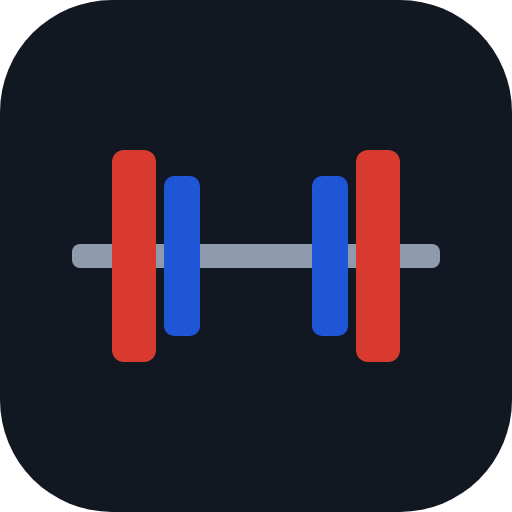
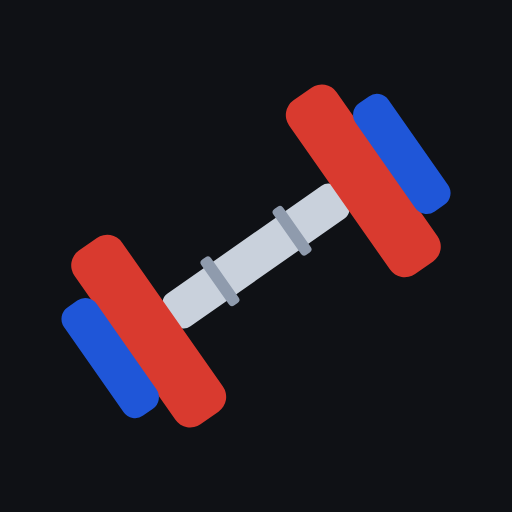
0.5.0: ad Fitness, dambıl logosu
Claude-Session: https://claude.ai/code/session_01VzwRQQ7PSYdx3jJS8kGzxX

diff --git a/src/screens/Profile.tsx b/src/screens/Profile.tsx
@@ -38,13 +38,13 @@ export default function ProfileScreen() {
   useEffect(() => {
     let alive = true
     exportBackup().then((data) => {
-      const name = `form-yedek-${new Date().toISOString().slice(0, 10)}.json`
+      const name = `fitness-yedek-${new Date().toISOString().slice(0, 10)}.json`
       if (alive) setReady(new File([JSON.stringify(data)], name, { type: 'application/json' }))
     }).catch(() => {})
     return () => { alive = false }
   }, [dataStamp])
   const doExport = async () => {
-    const file = ready ?? new File([JSON.stringify(await exportBackup())], `form-yedek-${new Date().toISOString().slice(0, 10)}.json`, { type: 'application/json' })
+    const file = ready ?? new File([JSON.stringify(await exportBackup())], `fitness-yedek-${new Date().toISOString().slice(0, 10)}.json`, { type: 'application/json' })
     const r = await saveFile(file)
     if (r === 'cancel') return
     await update({ lastBackup: Date.now() })
@@ -56,7 +56,7 @@ export default function ProfileScreen() {
       if (!await ask('Telefondaki mevcut verilerin tamamı yedektekiyle değiştirilecek.', { title: 'Yedek geri yüklensin mi?', danger: true, ok: 'Geri yükle' })) return
       await importBackup(json)
       notify('Yedek geri yüklendi.')
-    } catch (e) { notify((e as Error).message || 'Dosya okunamadı. Form uygulamasından alınmış bir .json yedeği seç.') }
+    } catch (e) { notify((e as Error).message || 'Dosya okunamadı. Fitness uygulamasından alınmış bir .json yedeği seç.') }
   }
   const backupAge = profile.lastBackup ? Math.floor((Date.now() - profile.lastBackup) / 86400000) : null
 
@@ -173,8 +173,8 @@ export default function ProfileScreen() {
         <h3>Dışa ve içe aktarma</h3>
         <p className="muted small">CSV dosyasını Excel veya Numbers'ta açabilirsin.</p>
         <div className="row">
-          <button className="btn grow" onClick={async () => { try { await shareFile(`form-antrenman-${new Date().toISOString().slice(0, 10)}.csv`, await workoutsCsv(map)) } catch { /* iptal */ } }}>Antrenman CSV</button>
-          <button className="btn grow" onClick={async () => { try { await shareFile(`form-beslenme-${new Date().toISOString().slice(0, 10)}.csv`, await diaryCsv()) } catch { /* iptal */ } }}>Beslenme CSV</button>
+          <button className="btn grow" onClick={async () => { try { await shareFile(`fitness-antrenman-${new Date().toISOString().slice(0, 10)}.csv`, await workoutsCsv(map)) } catch { /* iptal */ } }}>Antrenman CSV</button>
+          <button className="btn grow" onClick={async () => { try { await shareFile(`fitness-beslenme-${new Date().toISOString().slice(0, 10)}.csv`, await diaryCsv()) } catch { /* iptal */ } }}>Beslenme CSV</button>
         </div>
         <button className="btn" onClick={() => strongRef.current?.click()}>Strong'dan içe aktar</button>
         <p className="muted tiny">Strong → Profil → Ayarlar → Verileri dışa aktar ile aldığın CSV'yi seç. Aynı antrenman iki kez eklenmez, eşleşmeyen hareketler özel hareket olarak eklenir.</p>
@@ -194,7 +194,7 @@ export default function ProfileScreen() {
         <ol className="small" style={{ paddingLeft: 18, margin: 0 }}>
           <li>Kısayollar → + → <b>Sağlık Örneklerini Bul</b>: Adımlar, bugün, toplam. Aynısını <b>Vücut Ağırlığı</b> (son 1), <b>Uyku Analizi</b> (dün gece) ve <b>Aktif Enerji</b> (bugün, toplam) için ekle.</li>
           <li><b>URL</b> eylemi ekle: <code className="tiny" style={{ wordBreak: 'break-all' }}>{location.origin + location.pathname}?steps=[Adımlar]&amp;w=[Ağırlık]&amp;sleep=[Uyku saat]&amp;kcal=[Aktif Enerji]</code></li>
-          <li><b>URL'leri Aç</b> eylemini ekle. Ana ekrandaki Form'u açması için adres, uygulamayı yüklediğin adresle aynı olmalı.</li>
+          <li><b>URL'leri Aç</b> eylemini ekle. Ana ekrandaki Fitness'ı açması için adres, uygulamayı yüklediğin adresle aynı olmalı.</li>
           <li>Otomasyon → Günün saati (ör. 09:00) → bu kısayolu çalıştır.</li>
         </ol>
         <p className="muted tiny">Kilo ölçümlere, adım ve uyku günlük kontrole yazılır; adım kalorisi gerçek adımınla hesaplanır. Android'de tarayıcı uygulamaları Health Connect'e erişemez; adımı ana sayfadaki günlük kontrolden elle girebilirsin, girmezsen Profil'deki ortalama adım kullanılır.</p>

diff --git a/src/components/VersionFooter.tsx b/src/components/VersionFooter.tsx
@@ -8,7 +8,8 @@ export const CHANGELOG: { v: string; date: string; items: string[] }[] = [
     'Kısıta takılan hareketlerde ağırlık artışı temkinli; o bölgede ağrı 4/10 ve üstüyse ağırlık %15 düşer',
     'Günlük kontrole omuz ağrısı ve adım girişi eklendi',
     'Yedekleme iPhone ve Android\'de paylaşım menüsü veya indirme ile çalışıyor; geri yükleme her dosya seçiciyle açılıyor',
-    'Kayan ve sıkışan butonlar düzeltildi (sekmeler, form alanları, alt çubuk)'
+    'Kayan ve sıkışan butonlar düzeltildi (sekmeler, form alanları, alt çubuk)',
+    'Uygulamanın adı Fitness oldu, yeni dambıl logosu'
   ] },
   { v: '0.4.0', date: '4 Kasım 2026', items: [
     'Yakılan kalori: ağırlık 380, kardiyo 500 kcal/saat ve 7500 adım varsayılanı (Profil\'den değişir); antrenman sonunda, beslenmede ve haftalık raporda gösterilir',
@@ -65,7 +66,7 @@ export default function VersionFooter() {
   const built = new Date(__BUILD_TIME__).toLocaleString('tr-TR', { day: 'numeric', month: 'long', hour: '2-digit', minute: '2-digit' })
   return (
     <footer className="footer">
-      <span>Form {__APP_VERSION__} · {built}</span>
+      <span>Fitness {__APP_VERSION__} · {built}</span>
       <div className="row">
         <button className="btn sm" disabled={busy} onClick={async () => { setBusy(true); await checkForUpdate(); setBusy(false) }}>{busy ? 'Kontrol ediliyor…' : 'Güncellemeleri kontrol et'}</button>
         <button className="btn sm" onClick={() => setOpen(true)}>Sürüm notları</button>

diff --git a/index.html b/index.html
@@ -6,10 +6,10 @@
     <meta name="theme-color" content="#0f1115" />
     <meta name="apple-mobile-web-app-capable" content="yes" />
     <meta name="apple-mobile-web-app-status-bar-style" content="black-translucent" />
-    <meta name="apple-mobile-web-app-title" content="Form" />
+    <meta name="apple-mobile-web-app-title" content="Fitness" />
     <link rel="apple-touch-icon" href="./icon-192.png" />
     <link rel="icon" href="./icon.svg" />
-    <title>Form</title>
+    <title>Fitness</title>
     <link rel="preconnect" href="https://fonts.googleapis.com" />
     <link rel="preconnect" href="https://fonts.gstatic.com" crossorigin />
     <link rel="stylesheet" href="https://fonts.googleapis.com/css2?family=Barlow+Condensed:wght@500;600;700&family=Manrope:wght@500;600;700;800&display=swap" />

diff --git a/src/lib/progression.ts b/src/lib/progression.ts
@@ -2,7 +2,7 @@ import type { Exercise } from '../data/exercises'
 import type { SetEntry, Workout } from '../db'
 import { e1rm } from './calc'
 
-// Form'un ilerleme algoritması: RIR destekli çift ilerleme (double progression).
+// Uygulamanın ilerleme algoritması: RIR destekli çift ilerleme (double progression).
 // 1) Tüm setlerde tekrar aralığının üstüne ulaşıldı ve tükenişe pay kaldıysa ağırlık artar.
 // 2) Aralık içindeyse aynı ağırlıkta her sete +1 tekrar hedeflenir.
 // 3) Alt sınırın altında kalındıysa aynı ağırlık korunur; iki seans üst üste olursa ağırlık %10 düşer.

diff --git a/vite.config.ts b/vite.config.ts
@@ -17,8 +17,8 @@ export default defineConfig({
       injectRegister: null,
       includeAssets: ['icon.svg'],
       manifest: {
-        name: 'Form – Antrenman & Beslenme',
-        short_name: 'Form',
+        name: 'Fitness',
+        short_name: 'Fitness',
         lang: 'tr',
         start_url: './',
         scope: './',
